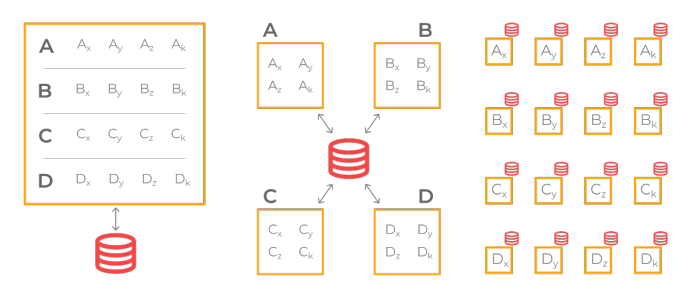
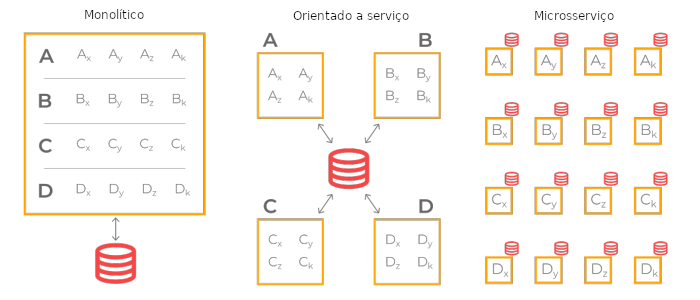
Update (08/06)

diff --git a/unikernel/main.tex b/unikernel/main.tex
@@ -1,3 +1,5 @@
+% #!$HOME/.asdf/install/python/$PYTHON_MAJOR_MINOR/bin/python$PYTHON_MAJOR
+
 \documentclass[12pt]{article}
 
 \usepackage{sbc-template}
@@ -20,20 +22,23 @@
   Escola Politécnina- Universidade do Vale do Rio dos Sinos\\
   93022-750 -- São Leopoldo -- RS -- Brazil
   \email{\{gaporto\}@edu.unisinos.br}
-} % Colocar ", [usuário]" entre os "{}"
+} % Colocar ", [usuário]" entre os "{}" no campo de e-mail, ao lado do meu \{gaporto}\
 
 \begin{document} 
 
 \maketitle
-
-% \begin{abstract}
-
-% \end{abstract}
-     
-% \begin{resumo} 
-
-% \end{resumo}
-
+% ! TODO Remove - (! \label WIP)
+% O Lorem é para ter noção de espaço (máximo) para garantir
+% o respeito de número máximo de páginas.
+\begin{abstract}
+Lorem ipsum dolor sit amet, consectetur adipiscing elit. Integer consequat sed est quis pellentesque. Curabitur vitae mi porttitor nunc porta lacinia tempus eget metus. Nam eu nunc eu mi blandit interdum. Quisque tempor eget velit sit amet feugiat. Phasellus elementum feugiat risus, id rutrum augue scelerisque in. Praesent aliquet varius libero sit amet lacinia. Donec consectetur non nisi et tincidunt. Nullam a est et nisi fringilla volutpat. Integer mauris lorem, congue id mattis eu, ultricies sit amet ligula. Suspendisse potenti. Ut volutpat, dui eu vestibulum ornare, mauris sem sollicitudin quam, eu tincidunt felis nunc sagittis purus. Integer eleifend justo nec sagittis pulvinar. Quisque mollis id justo sit amet interdum. Etiam a turpis varius nunc pharetra. 
+\end{abstract}
+% ! TODO Remove - (! \label WIP)
+% O Lorem é para ter noção de espaço (máximo) para garantir
+% o respeito de número máximo de páginas.     
+\begin{resumo} 
+Lorem ipsum dolor sit amet, consectetur adipiscing elit. Integer consequat sed est quis pellentesque. Curabitur vitae mi porttitor nunc porta lacinia tempus eget metus. Nam eu nunc eu mi blandit interdum. Quisque tempor eget velit sit amet feugiat. Phasellus elementum feugiat risus, id rutrum augue scelerisque in. Praesent aliquet varius libero sit amet lacinia. Donec consectetur non nisi et tincidunt. Nullam a est et nisi fringilla volutpat. Integer mauris lorem, congue id mattis eu, ultricies sit amet ligula. Suspendisse potenti. Ut volutpat, dui eu vestibulum ornare, mauris sem sollicitudin quam, eu tincidunt felis nunc sagittis purus. Integer eleifend justo nec sagittis pulvinar. Quisque mollis id justo sit amet interdum. Etiam a turpis varius nunc pharetra.
+\end{resumo}
 
 \section{Introdução}
 
@@ -45,19 +50,44 @@ O conceito fundamenta-se, basicamente, da utilização do sistema operacional se
 
 \section{Arquitetura}
 
-Em seu cerne, Unikernels são estruturados para funcionarem baseados na necessidade do sistema, isto é, o mesmo carateriza-se por ser orientado a serviço (\textit{service-based}). Desta forma, sua organização e arquitetura fundamentam-se em melhor atender a estas necessidades baseadas no módulos requeridos, utilizando uma abordagem cirúrgica em comparação ao modelo de virtualização de um sistema operacional ou outras abordagens, como visto na figura ~\ref{fig:fig1}.
+Em seu cerne, Unikernels são estruturados para funcionarem baseados na necessidade do sistema, isto é, o mesmo carateriza-se por ser orientado a serviço (\textit{service-based}). Desta forma, sua organização e arquitetura fundamentam-se em melhor atender a estas necessidades baseadas no módulos requeridos, utilizando uma abordagem cirúrgica e objetiva, quando comparado ao modelo de virtualização de um sistema operacional ou outras abordagens, como visto na figura ~\ref{fig:fig1}.
 
 \begin{figure}[H]
 \centering
 \includegraphics[width=.8\textwidth]{fig1.png}
-\caption{Comparação das abordagens \cite{fraga:120}}
+\caption{Comparação das abordagens com um banco de dados de exemplo. Fonte: Adaptado de \cite{fraga:120}}
 \label{fig:fig1}
 \end{figure}
 
- Na mesma figura, utilizando como comparação a utilização de um banco de dados, exemplifica-se que a "granulação", diferente de uma alternativa mais monolítica de um sistema operacional ou orientada a serviço,módulos de Unikernel são um "universo próprio". 
- 
- Isto é, não há dependências e por consequência \textit{overheads} geradas pela utilização de certos recursos
 
+\subsection{Estrutura}
+
+ Na mesma figura, utilizando como comparação a utilização de um banco de dados, exemplifica-se que a "granulação", diferente de uma alternativa mais monolítica de um sistema operacional ou orientada a serviço, módulos de Unikernel são um "universo próprio". Ou seja, não há dependências que não as unicamente necessária para sua funcionalidade e por consequência \textit{overheads} geradas pela utilização de certos recursos. 
+ 
+ Esta mitigação de recursos aos moldes de microsserviços é extremamente eficiente quando aplicada a aplicações de \textit{IoT}, sendo estes - principalmente quando vinculado às aplicações \textit{Cloud} - fundamentalmente desenvolvidos para ser altamente escaláveis e distribuídos, tendo como este o principal fator da utilização em determinados contextos \cite{fraga:120}.
+ 
+ Partindo deste tópico, considerando que estes módulos são ordens de grandeza menores que o modelo de um sistema inteiro, existem uma série de fatores que se destacam em sua construção, sendo um dos mais importantes o aspecto relacionado à segurança do mesmo. Tal conceito é abrangido e assegurado principalmente na não dependência de terceiros não requeridos, mas, mais fundamentalmente, pela imutabilidade do módulo. 
+ 
+ \subsection{Organização}
+ 
+ Define-se esta imutabilidade como, ao criar o módulo, este apenas conterá um singelo espaço de endereçamento contendo tudo aquilo que precisará para seu funcionamento pleno. Graças a esta abordagem contida, diferentemente de sistemas operacionais (como os *NIX/BSD) não há existência de modos de execução, ou seja, não há \textit{kernel-mode} e \textit{user-mode}, como o demostrado pelo comparativo da figura ~\ref{fig:fig2}.
+
+\begin{figure}[H]
+\centering
+\includegraphics[width=.8\textwidth]{fig2.png}
+\caption{Comparação de um sistema operacional e um módulo Unikernel. Fonte: Adaptado de \cite{fraga:120}}
+\label{fig:fig2}
+\end{figure}
+
+ Esta mudança trás consigo, principalmente, a não necessidade de troca de contexto para acesso de determinados recursos - e, portanto, não tras consigo seus \textit{overheads}, sendo este um outro atrativo a favor de sua utilização. A princípio, tal alteração pode parecer insegura, porém, mostra-se eficiente e até mesmo mais inabalável quanto a este tópico em relação às abordagens que fazem uso de sistemas operacionais "inteiros".
+ 
+ O ocorrido é que, dada sua granularidade e seu contexto extremamente específico, mesmo que haja algum problema, este não é capaz de alterar o sistema que utilizará estes módulos em sua totalidade. No caso de, por exemplo, uma invasão, o atacante terá acesso apenas ao módulo em questão, sendo incapaz de interferir em outros processos - a menos que o mesmo seja capaz de interagir diretamente com o \textit{Hypervisor} \cite{fraga:120}. 
+ 
+ \subsection{Hypervisor}
+ 
+ Unikernels, assim como qualquer Máquina Virtual, necessitam obrigatoriamente de um meio de acesso ao hardware para que funcionem. Nesta situação, utiliza-se um mecanismo para servir de barramento entre camadas lógicas e físicas, o mesmo é conhecido como \textit{Hypervisor}.
+ 
+ Quanto a sua aplicação aos módulos do Unikernel, sua funcionalidade difere quando comparada a um simples Máquina Virtual. O mesmo além de barramento, serve como agregador de cada módulo, possibilitando, por exemplo interações dentre os módulos tal qual programas que seguem filosofia UNIX de software. Todavia, em contraponto, \textit{Hypervisors} para Unikernels não \textbf{(WIP terminar de citar as diferenças do Hypervisor utilizado em Unikerls (usando a foto de ref da pg 21 do \cite{fraga:120}. Seguido de citar virtualização [integrar o doc adaptando] e por último falar de desempenho). Se necessário, dar uma resumida para não passar as cinco pgs, mas acho que foi resumido e dará certo} % ! TODO Continuar amanhã (09/06) | Remove - (! \label WIP)
 
 \bibliographystyle{sbc}
 \bibliography{sbc-template}
